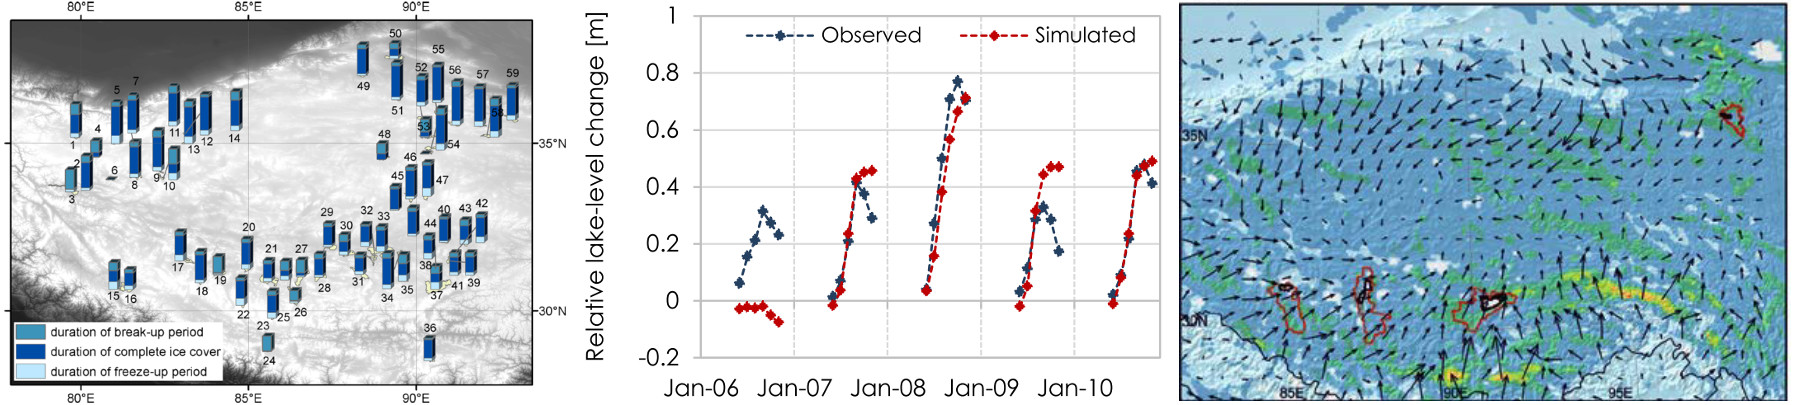
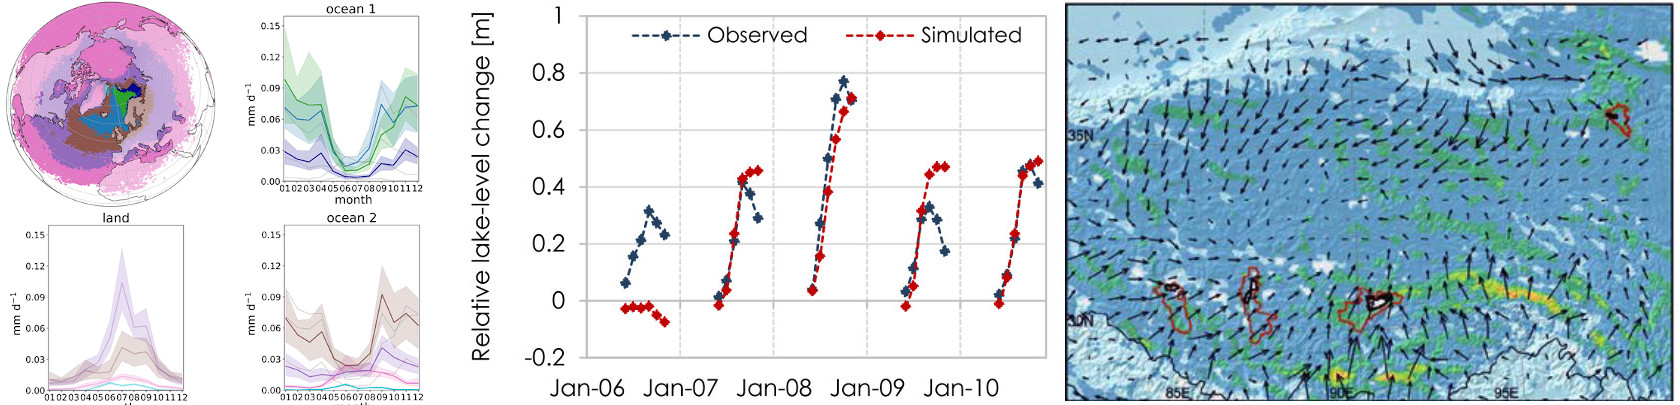
wb updates

diff --git a/research/index.md b/research/index.md
@@ -22,7 +22,7 @@ the glacier geometrical widths; (c) inversion of the glacier thickness using a m
 and ice-flow modelling approach; (d) spatial interpolation of the ice thickness.</figcaption>
 </figure>
 
-**Relevant publications:** [Maussion et al., 2019](https://www.geosci-model-dev.net/12/909/2019/gmd-12-909-2019.html); [Marzeion et al., 2018](https://www.nature.com/articles/s41558-018-0093-1); [Marzeion et al., 2020](https://doi.org/10.1029/2019EF001470); [Goosse et al., 2018](https://www.clim-past.net/14/1119/2018/cp-14-1119-2018.html); [Farinotti et al., 2017](https://www.the-cryosphere.net/11/949/2017/); [Farinotti et al., 2019](https://www.nature.com/articles/s41561-019-0300-3); [Recinos et al., 2019](https://www.the-cryosphere.net/13/2657/2019/tc-13-2657-2019.html); [Eis et al., 2019](https://www.the-cryosphere.net/13/3317/2019/)
+**Relevant publications:** [Maussion et al., 2019](https://www.geosci-model-dev.net/12/909/2019/gmd-12-909-2019.html); [Marzeion et al., 2018](https://www.nature.com/articles/s41558-018-0093-1); [Marzeion et al., 2020](https://doi.org/10.1029/2019EF001470); [Goosse et al., 2018](https://www.clim-past.net/14/1119/2018/cp-14-1119-2018.html); [Farinotti et al., 2017](https://www.the-cryosphere.net/11/949/2017/); [Farinotti et al., 2019](https://www.nature.com/articles/s41561-019-0300-3); [Recinos et al., 2019](https://www.the-cryosphere.net/13/2657/2019/tc-13-2657-2019.html); [Eis et al., 2019](https://www.the-cryosphere.net/13/3317/2019/); [Eis et al., 2021](https://www.frontiersin.org/articles/10.3389/feart.2021.595755/full); [Pelto et al., 2020](https://doi.org/10.1017/jog.2020.75); [Rounce et al., 2021](:https://doi.org/10.1029/2020GL091311);
 
 ### Climate controls on glacier mass-balance
 
@@ -93,8 +93,8 @@ and ice-flow modelling approach; (d) spatial interpolation of the ice thickness.
     <a href="/images/research/Fig_Multi.jpg" >
     <img src="/images/research/Fig_Multi.jpg" alt="missing" width="100%" />
     </a>
-    <figcaption>Left: ice cover duration for several lakes on the TP obtained
-    from remote sensing data (Kropáček et al., 2013). Middle: monthly lake Level
+    <figcaption>Left: atmospheric moisture contribution to precipitation in northeast Greenland 
+    (Schuster et al., 2021). Middle: monthly lake Level
     changes as observed and as simulated by a modelling tool combining atmospheric
     and hydrological models (Biskop et al., 2016). Right: mean shear velocities
     (colour scale) and wind direction and speed over the Tibetan Plateau in summer
@@ -109,7 +109,8 @@ and ice-flow modelling approach; (d) spatial interpolation of the ice thickness.
 [Dietze et al., 2014](http://www.clim-past.net/10/91/2014/);
 [Huintjes et al., 2015](http://www.bioone.org/doi/10.1657/AAAR0014-073);
 [Spieß et al., 2015](http://onlinelibrary.wiley.com/doi/10.1111/geoa.12102/abstract);
-[Pelto et al., 2020](https://doi.org/10.1017/jog.2020.75)
+[Schuster et al., 2021](https://wcd.copernicus.org/articles/2/1/2021/);
+
 
 ### Open science
 
@@ -121,14 +122,21 @@ are open access. I am also a scientific editor for the open-access
 journal [Geoscientific Model Development](https://gmd.copernicus.org/).
 
 
-## Grants:
+## Research projects & grants
 
-### Current
-* [AgroClim Huaraz - Water availability and water demand in the Peruvian Andes](https://agroclim-huaraz.info/) (2019-2022, PI)
-* [Modelling glacier length changes in Alps on the base of tree-ring based temperature reconstructions for the last 2500 years](http://acinn.uibk.ac.at/research/ice-and-climate/projects/glacier-length) (2018-2021, PI)
+### As PI (current)
+- 2021--2024: PROVIDE -- Paris Agreement Overshooting – Reversibility, Climate Impacts and Adaptation Needs (H2020) 
+- 2019--2022: [AgroClim - Huaraz](https://agroclim-huaraz.info/), "Water availability and water demand in the Peruvian Andes" (ÖAW) 
+- 2020--2022: [Scaling regional sea-level changes with climate forcings](https://www.uibk.ac.at/acinn/research/ice-and-climate/projects/scaling_regional_sea_level_changes.html.en) (FWF, Co-PI)
 
-### Past
-* [The Upper Grindelwald Glacier as indicator for Holocene climate variability](http://acinn.uibk.ac.at/research/ice-and-climate/projects/grindelwald) (2018-2019, PI)
-* [Multidecadal to Centennial Climate Variability: Assessing the Conditions for the Glaciation of Tropical Mountains](http://acinn.uibk.ac.at/research/ice-and-climate/projects/climvar) (2010-2014, Post Doc)
-* [Variability and Trends in Water Balance Components of Benchmark Drainage Basins on the Tibetan Plateau](http://www.klima.tu-berlin.de/index.php?show=forschung_asien_tibet_wet&lan=en) (2011-2014, Scientific Coordinator)
-* [Dynamic Response of Glaciers on the Tibetan Plateau to Climate Change](http://www.klima.tu-berlin.de/index.php?show=forschung_asien_tibet&lan=en) (2008-2014, PhD project)
+### As PI (completed)
+- 2018--2021: [Modelling glacier length changes in Alps on the base of tree-ring based temperature reconstructions for the last 2500 years](https://www.uibk.ac.at/acinn/research/ice-and-climate/projects/modelling-glacier-length-changes.html.en) (Universtität Innsbruck, Co-PI)
+- 2019--2020: "[Glaciers on the Cloud: OGGM-Edu](https://edu.oggm.org)" (University of Innsbruck) 
+- 2018--2019: [The Upper Grindelwald Glacier as indicator for Holocene climate variability](https://www.uibk.ac.at/acinn/research/ice-and-climate/projects/holocene-climate-variability.html.en) (TWF) 
+
+### As collaborator
+- 2021--2024: Landslides and Climate Change in highly Sensible Environments: Seismology, Earth Observation and Artificial Intelligence – [HighLand](https://anr.fr/Project-ANR-20-CE01-0006)
+- 2015--2021: Atmospheric Downscaling for Glacierized mountain environments – [DoG](https://www.uibk.ac.at/acinn/research/ice-and-climate/projects/dog.html.en)
+- 2014--2015: [Multidecadal to Centennial Climate Variability: Assessing the Conditions for the Glaciation of Tropical Mountains](https://www.uibk.ac.at/acinn/research/ice-and-climate/projects/glaciation-of-tropical-mountains.html.en) (FWF) 
+- 2011--2014: [WET](https://www.klima.tu-berlin.de/index.php?show=reg_klima_hochasien_wet&lan=en) -- Variability and Trends in Water Balance Components of Benchmark Drainage Basins on the Tibetan Plateau (BMBF) 
+- 2008--2014: [DynRG-TIP](https://www.klima.tu-berlin.de/index.php?show=reg_klima_hochasien_dynrgtip&lan=en) -- Dynamic Response of Glaciers on the Tibetan Plateau to Climate Change (DFG) 

diff --git a/index.md b/index.md
@@ -11,18 +11,18 @@ title: "About"
   </div>
 </footer>
 
-I am an assistant professor at the
-[Department of Atmospheric and Cryospheric Sciences](http://acinn.uibk.ac.at/),
- part of the [Research Centre for Climate](https://www.uibk.ac.at/climate-cryosphere/)
+I am an assistant professor at the 
+[Department of Atmospheric and Cryospheric Sciences](http://acinn.uibk.ac.at),
+ part of the [Research Centre for Climate](https://www.uibk.ac.at/climate-cryosphere)
 at the University of Innsbruck.
 
-I&#160;specialize in the study of our climate system, in particular 
-its atmosphere, cryosphere and how they interact. 
+I&#160;specialize in the study of our **climate system**, in particular 
+its **atmosphere, cryosphere and how they interact**. 
 I do this mostly with the help of computer models,
-but I don't mind doing fieldwork sometimes as well.
+but I don't mind going to the field sometimes as well!
 
-I am also active around the topics of open science, open teaching, and open source.
-On this website you'll find some infos and links to the projects I contribute to.
+I am also active around the topics of **open science, open education, and open source**.
+On this website you'll find infos and links to the projects I contribute to.
 
 ![ACINN Logo](/images/acinn_logo.png)
 {: .image-pull-right .max-width-20}
